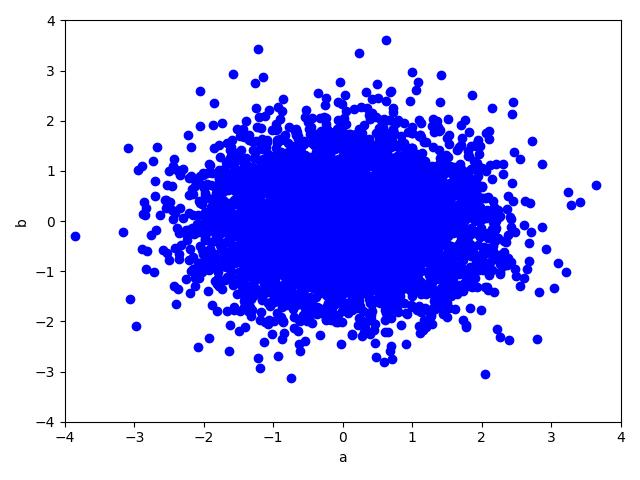
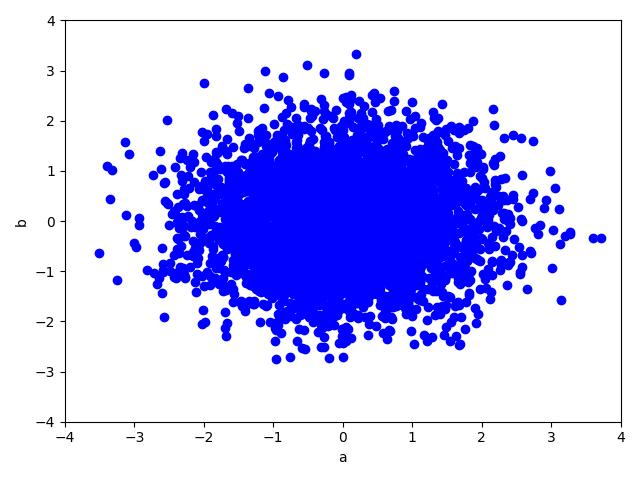
provided 3 parameters for variance 2

diff --git a/Q1_TODO.py b/Q1_TODO.py
@@ -101,67 +101,70 @@ def generate_data(M, var1, var2, degree):
 # Settings
 M = 5000
 var1 = 1
-var2 = 0.8
+var2_list = [0.1, 0.3, 0.8]
 degree = 45
 
-data = generate_data(M, var1, var2, degree)
+for var2 in var2_list:
 
 
-##########
-# Training the linear regression model predicting y from x (x2y)
-Input = data[:, 0].reshape((-1, 1))  # M x d, where d=1
-# M x (d+1) augmented feature
-Input_aug = np.concatenate([Input, np.ones([M, 1])], axis=1)
-Output = data[:, 1].reshape((-1, 1))  # M x 1
+    data = generate_data(M, var1, var2, degree)
 
 
-w_x2y = leastSquares(Input_aug, Output)  # (d+1) x 1, where d=1
-
-print('Predicting y from x (x2y): weight=' +
-      str(w_x2y[0, 0]), 'bias = ', str(w_x2y[1, 0]))
-
-# # Training the linear regression model predicting x from y (y2x)
-
-Input = data[:, 1].reshape((-1, 1))  # M x d, where d=1
-# M x (d+1) augmented feature
-Input_aug = np.concatenate([Input, np.ones([M, 1])], axis=1)
-Output = data[:, 0].reshape((-1, 1))  # M x 1
-
-w_y2x = leastSquares(Input_aug, Output)  # (d+1) x 1, where d=1
-print('Predicting x from y (y2x): weight=' +
-      str(w_y2x[0, 0]), 'bias = ', str(w_y2x[1, 0]))
+    ##########
+    # Training the linear regression model predicting y from x (x2y)
+    Input = data[:, 0].reshape((-1, 1))  # M x d, where d=1
+    # M x (d+1) augmented feature
+    Input_aug = np.concatenate([Input, np.ones([M, 1])], axis=1)
+    Output = data[:, 1].reshape((-1, 1))  # M x 1
 
 
-# plot the data points
-plt.figure()
-X = data[:, 0].reshape((-1, 1))  # M x d, where d=1
-Y = data[:, 1].reshape((-1, 1))  # M x d, where d=1
+    w_x2y = leastSquares(Input_aug, Output)  # (d+1) x 1, where d=1
 
-plt.scatter(X, Y, color="blue", marker='x')
-plt.xlim(-4, 4)
-plt.ylim(-4, 4)
-plt.xlabel('x')
-plt.ylabel('y')
+    print('Predicting y from x (x2y): weight=' +
+        str(w_x2y[0, 0]), 'bias = ', str(w_x2y[1, 0]))
 
-# plot the line where data are mostly generated around
-X_new = np.linspace(-4, 4, 100, endpoint=True).reshape([100, 1])
+    # # Training the linear regression model predicting x from y (y2x)
 
-Y_new = np.tan(np.pi/180*degree)*X_new
-plt.plot(X_new, Y_new, color="blue", linestyle='dashed')
+    Input = data[:, 1].reshape((-1, 1))  # M x d, where d=1
+    # M x (d+1) augmented feature
+    Input_aug = np.concatenate([Input, np.ones([M, 1])], axis=1)
+    Output = data[:, 0].reshape((-1, 1))  # M x 1
 
-# plot the prediction of y from x (x2y)
-# M x d, where d=1
-X_new = np.linspace(-4, 4, 100, endpoint=True).reshape([100, 1])
-# M x (d+1) augmented feature
-X_new_aug = np.concatenate([X_new, np.ones([X_new.shape[0], 1])], axis=1)
-plt.plot(X_new, model(X_new_aug, w_x2y), color="red", label="x2y")
+    w_y2x = leastSquares(Input_aug, Output)  # (d+1) x 1, where d=1
+    print('Predicting x from y (y2x): weight=' +
+        str(w_y2x[0, 0]), 'bias = ', str(w_y2x[1, 0]))
 
-# plot the prediction of x from y (y2x)
-# M x d, where d=1
-Y_new = np.linspace(-4, 4, 100, endpoint=True).reshape([100, 1])
-# M x (d+1) augmented feature
-Y_new_aug = np.concatenate([X_new, np.ones([X_new.shape[0], 1])], axis=1)
-plt.plot(model(Y_new_aug, w_y2x), Y_new, color="green", label="y2x")
-plt.legend()
-plt.tight_layout()
-plt.savefig('Regression_model_' + str(var2) + '_' + str(degree) + '.jpg')
+
+    # plot the data points
+    plt.figure()
+    X = data[:, 0].reshape((-1, 1))  # M x d, where d=1
+    Y = data[:, 1].reshape((-1, 1))  # M x d, where d=1
+
+    plt.scatter(X, Y, color="blue", marker='x')
+    plt.xlim(-4, 4)
+    plt.ylim(-4, 4)
+    plt.xlabel('x')
+    plt.ylabel('y')
+
+    # plot the line where data are mostly generated around
+    X_new = np.linspace(-4, 4, 100, endpoint=True).reshape([100, 1])
+
+    Y_new = np.tan(np.pi/180*degree)*X_new
+    plt.plot(X_new, Y_new, color="blue", linestyle='dashed')
+
+    # plot the prediction of y from x (x2y)
+    # M x d, where d=1
+    X_new = np.linspace(-4, 4, 100, endpoint=True).reshape([100, 1])
+    # M x (d+1) augmented feature
+    X_new_aug = np.concatenate([X_new, np.ones([X_new.shape[0], 1])], axis=1)
+    plt.plot(X_new, model(X_new_aug, w_x2y), color="red", label="x2y")
+
+    # plot the prediction of x from y (y2x)
+    # M x d, where d=1
+    Y_new = np.linspace(-4, 4, 100, endpoint=True).reshape([100, 1])
+    # M x (d+1) augmented feature
+    Y_new_aug = np.concatenate([X_new, np.ones([X_new.shape[0], 1])], axis=1)
+    plt.plot(model(Y_new_aug, w_y2x), Y_new, color="green", label="y2x")
+    plt.legend()
+    plt.tight_layout()
+    plt.savefig('Regression_model_' + str(var2) + '_' + str(degree) + '.jpg')
